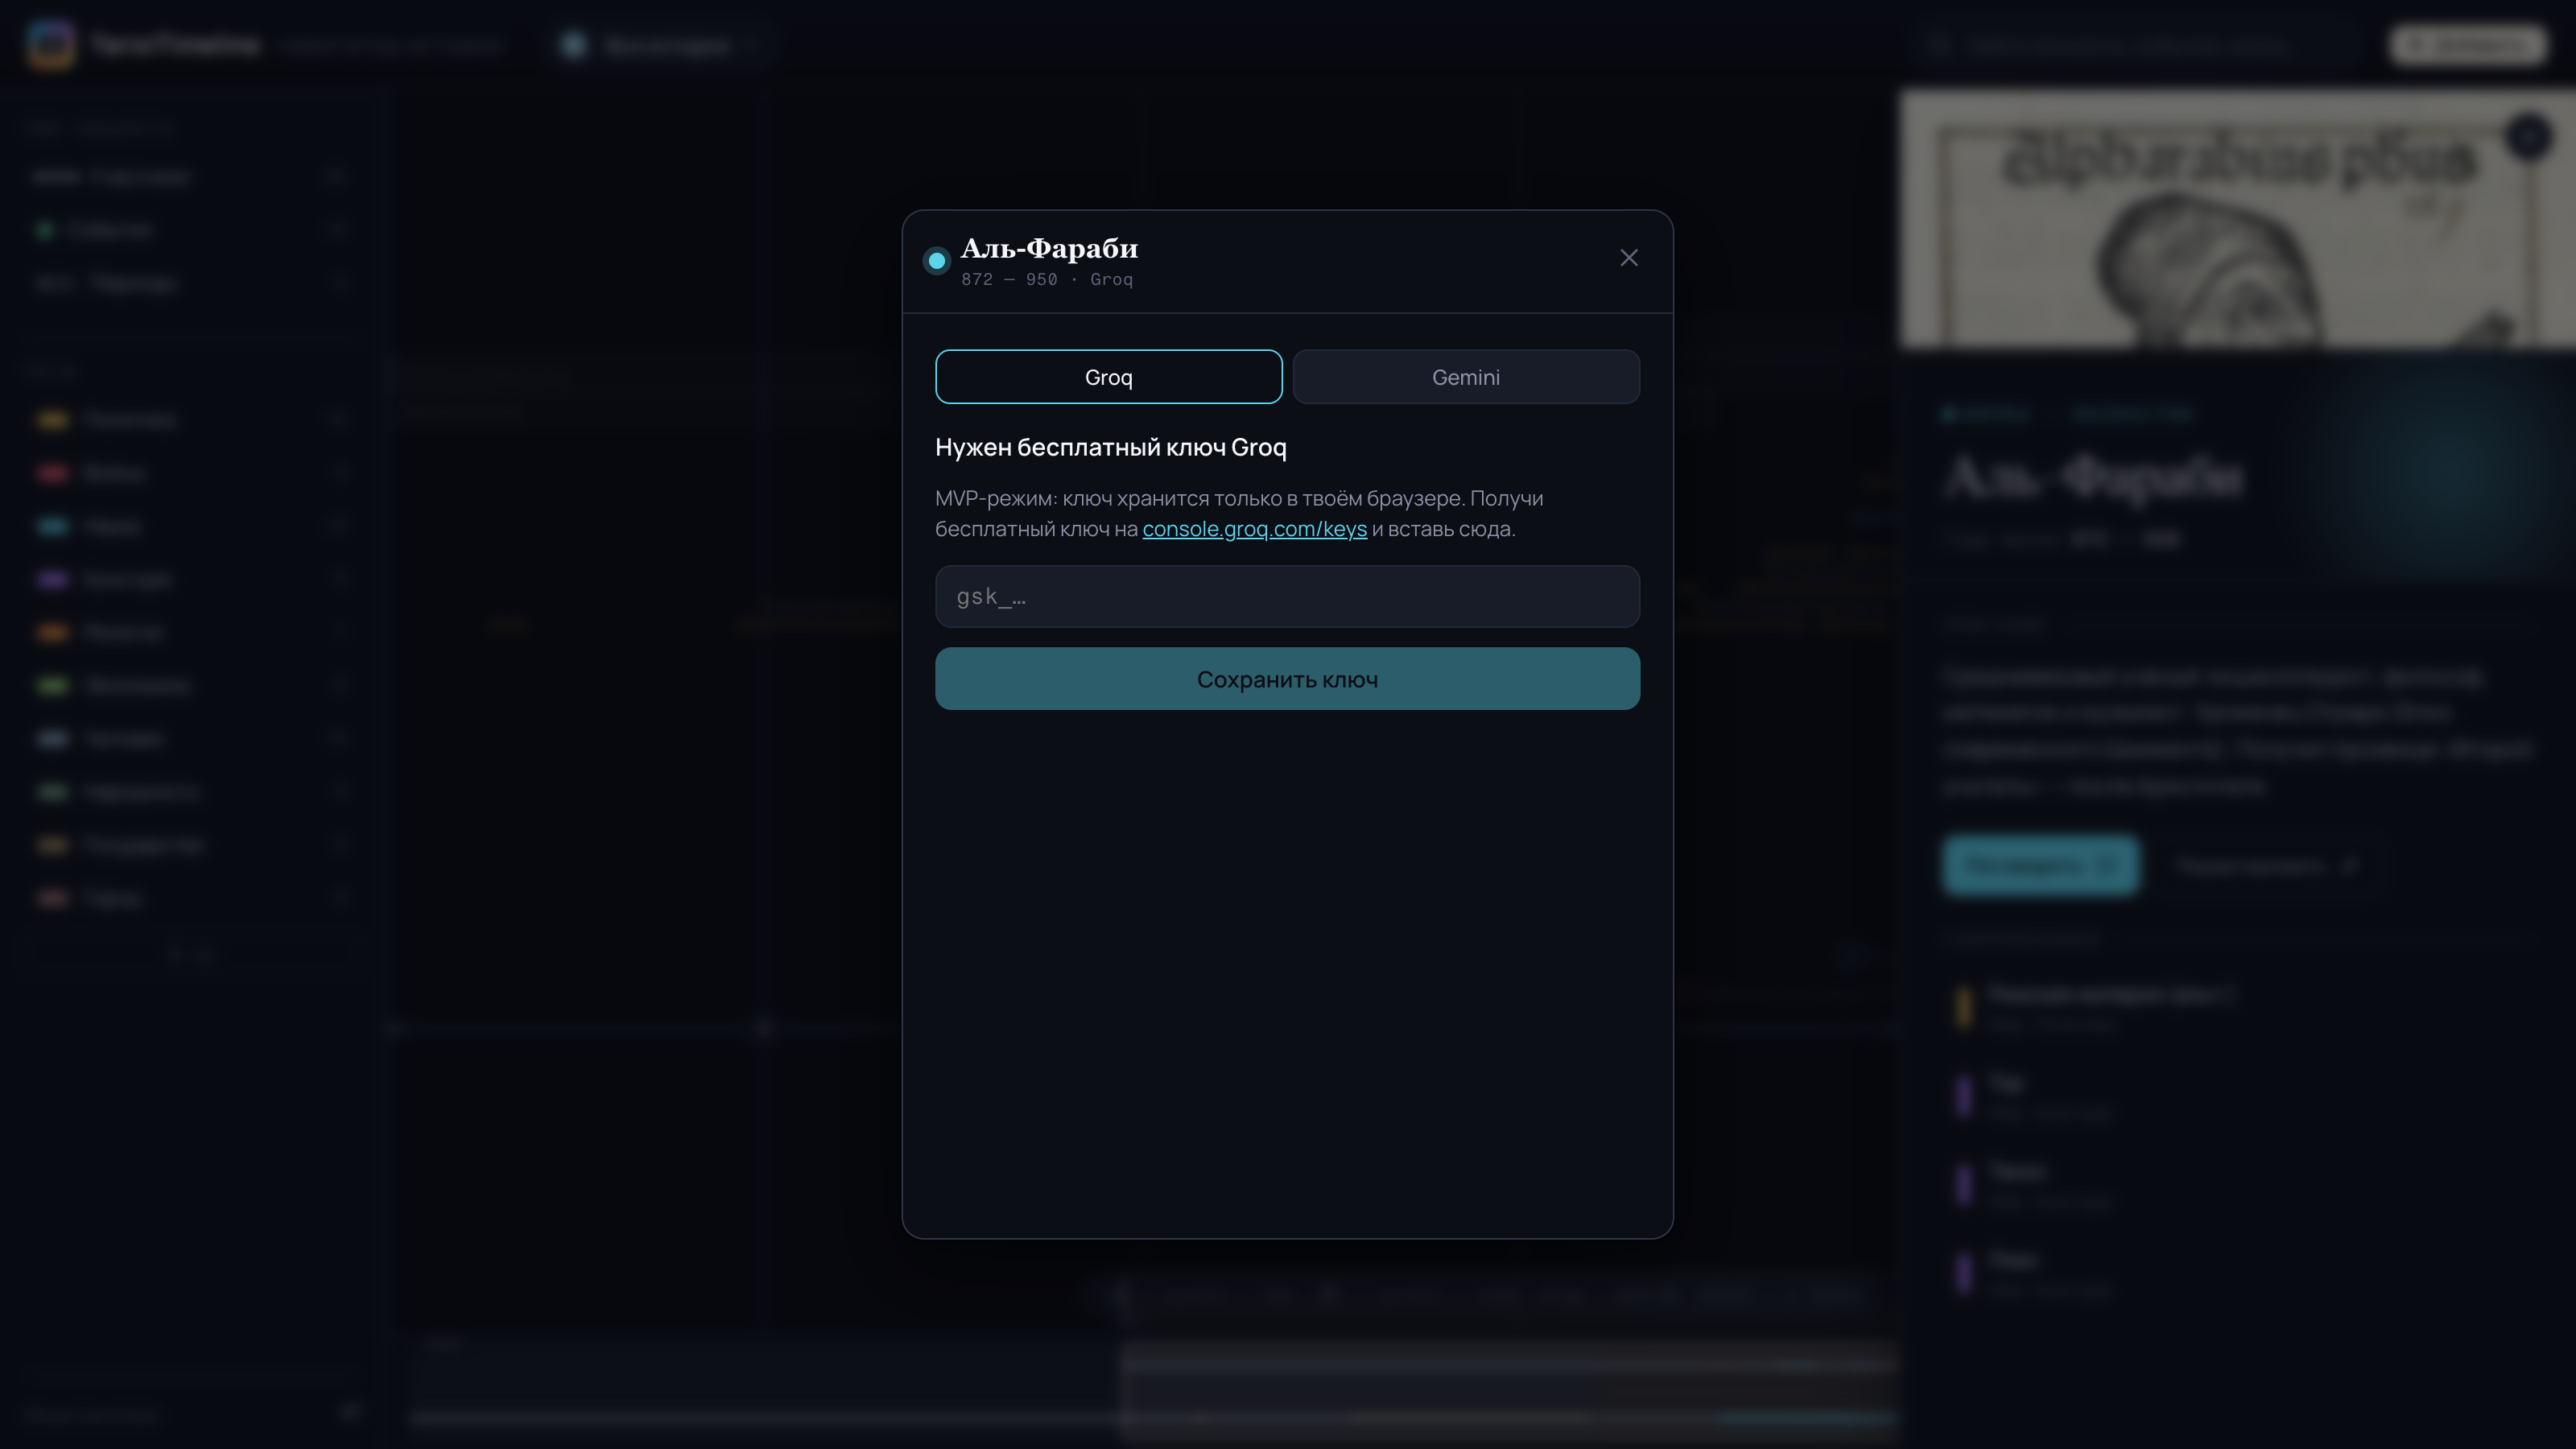
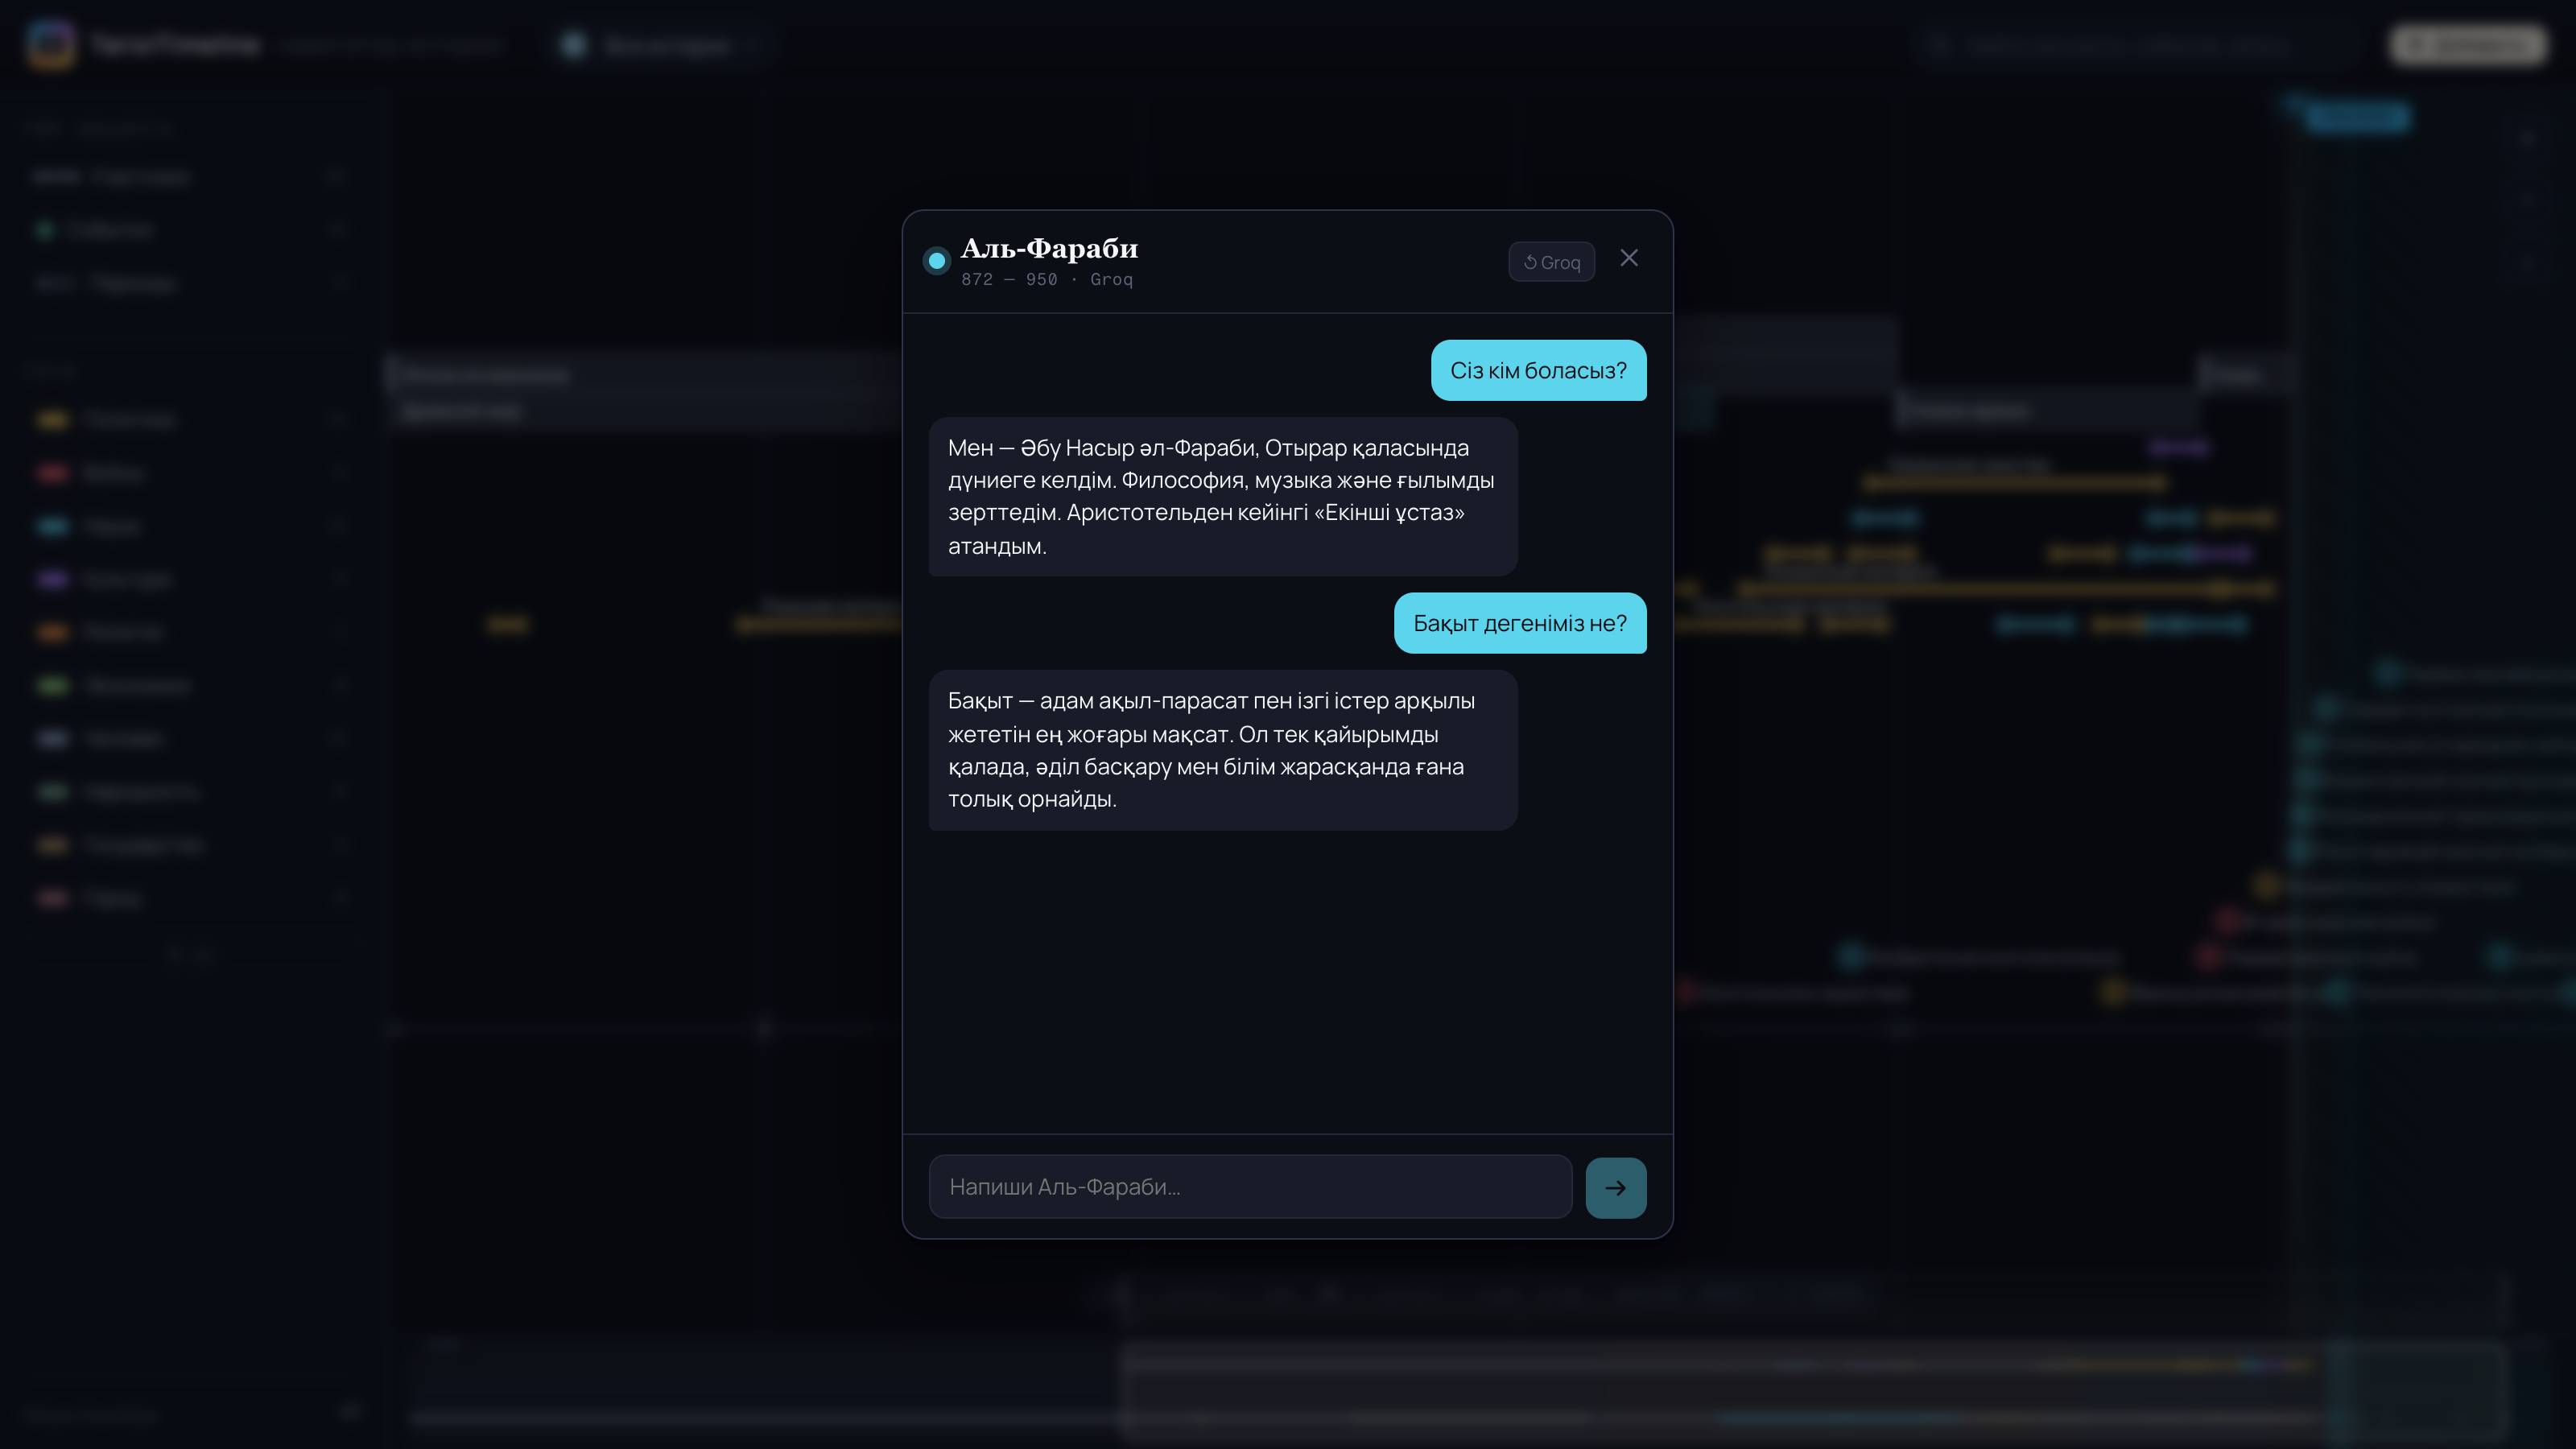
docs(presentation): real AI-chat screenshots + fix slide overflow
- Regenerate chat screenshots showing an actual Kazakh dialogue with
  Al-Farabi (mocked responses via headless Chrome, real chat UI)
- Fix detail-panel screenshot aspect ratio (was distorted) and re-crop
  to remove Marvel test-data contemporaries
- Slide 5/6: fix captions overflowing slide bottom
- Redesign slide 6: conversation as hero + feature points
- Add shoot-chat.js (reproducible chat screenshots), .gitignore for render artifacts

diff --git a/grant-presentation/shoot-chat.js b/grant-presentation/shoot-chat.js
@@ -1,0 +1,63 @@
+const puppeteer = require("puppeteer-core");
+const CHROME = "/Applications/Google Chrome.app/Contents/MacOS/Google Chrome";
+const OUT = "/Users/bekas/Developer/tarixi-timeline/grant-presentation";
+
+(async () => {
+  const browser = await puppeteer.launch({
+    executablePath: CHROME, headless: "new",
+    defaultViewport: { width: 1600, height: 900, deviceScaleFactor: 2 },
+    args: ["--no-sandbox", "--force-color-profile=srgb"],
+  });
+  const page = await browser.newPage();
+  await page.goto("http://localhost:7788/index.html", { waitUntil: "networkidle0" });
+  await page.waitForFunction(() => window.ALL_ITEMS && window.ChatPanel && document.querySelectorAll(".tl-item").length > 0, { timeout: 15000 });
+  await new Promise(r => setTimeout(r, 1000));
+
+  await page.evaluate(() => {
+    const answers = [
+      "Мен — Әбу Насыр әл-Фараби, Отырар қаласында дүниеге келдім. Философия, музыка және ғылымды зерттедім. Аристотельден кейінгі «Екінші ұстаз» атандым.",
+      "Бақыт — адам ақыл-парасат пен ізгі істер арқылы жететін ең жоғары мақсат. Ол тек қайырымды қалада, әділ басқару мен білім жарасқанда ғана толық орнайды.",
+    ];
+    window.__turn = 0;
+    const enc = new TextEncoder();
+    window.fetch = async () => {
+      const a = answers[Math.min(window.__turn++, answers.length - 1)];
+      const sse = "data: " + JSON.stringify({ choices: [{ delta: { content: a } }] }) + "\n\ndata: [DONE]\n\n";
+      return new Response(new ReadableStream({ start(c) { c.enqueue(enc.encode(sse)); c.close(); } }), { status: 200 });
+    };
+    localStorage.setItem("tarixi-chat-provider", "groq");
+    localStorage.setItem("tarixi-groq-key", "gsk_demo");
+    const div = document.createElement("div"); div.id = "__chat"; document.body.appendChild(div);
+    window.__root = ReactDOM.createRoot(div);
+    const item = window.ALL_ITEMS.find(i => i.id === "al-farabi");
+    window.__root.render(React.createElement(window.ChatPanel, { item, onClose() {} }));
+  });
+  await page.waitForSelector(".chat-input", { timeout: 8000 });
+
+  const ask = async (q) => {
+    await page.evaluate((text) => {
+      const ta = document.querySelector(".chat-input");
+      const setter = Object.getOwnPropertyDescriptor(window.HTMLTextAreaElement.prototype, "value").set;
+      setter.call(ta, text); ta.dispatchEvent(new Event("input", { bubbles: true }));
+    }, q);
+    await new Promise(r => setTimeout(r, 150));
+    await page.click(".chat-send");
+    await page.waitForFunction(() => {
+      const a = document.querySelectorAll(".chat-msg.assistant");
+      return a.length > 0 && a[a.length - 1].textContent.length > 15 && !document.querySelector(".chat-typing");
+    }, { timeout: 8000 });
+    await new Promise(r => setTimeout(r, 200));
+  };
+
+  await ask("Сіз кім боласыз?");
+  await ask("Бақыт дегеніміз не?");
+  await new Promise(r => setTimeout(r, 500));
+
+  // полноэкранный (модал над таймлайном) — 16:9
+  await page.screenshot({ path: OUT + "/screen-chat-full.png" });
+  // только модал с диалогом
+  const modal = await page.$(".chat-modal");
+  await modal.screenshot({ path: OUT + "/chat-modal.png" });
+  console.log("chat shots done");
+  await browser.close();
+})().catch(e => { console.error(e); process.exit(1); });

diff --git a/grant-presentation/build.js b/grant-presentation/build.js
@@ -18,7 +18,7 @@ const C = {
   line:   "D9D0BE",  // ашық сызық
 };
 
-const FONT_H = "Georgia";
+const FONT_H = "Times New Roman";
 const FONT_B = "Calibri";
 
 // ---------- иконкалар ----------
@@ -267,11 +267,11 @@ const shadow = () => ({ type: "outer", color: "000000", blur: 8, offset: 3, angl
     });
 
     s.addText("ДЕТАЛЬДІ ПАНЕЛЬ", { x: 8.5, y: 1.95, w: 4.2, h: 0.35, margin: 0, fontFace: FONT_B, fontSize: 12, bold: true, color: C.gold, charSpacing: 3 });
-    const dW = 3.05, dH = dW * 1.5, dX = 8.55, dY = 2.4; 
+    const dW = 3.05, dH = dW * 1050 / 850, dX = 8.55, dY = 2.4; // нақты пропорция (850x1050)
     s.addShape(pres.shapes.RECTANGLE, { x: dX - 0.04, y: dY - 0.04, w: dW + 0.08, h: dH + 0.08, fill: { color: C.navy }, shadow: shadow() });
     s.addImage({ path: __dirname + "/crop-detail.png", x: dX, y: dY, w: dW, h: dH });
-    s.addText("Детальді ақпаратта ИИ-чатты ашатын арнайы батырма орналасқан.", {
-      x: 8.55, y: dY + dH + 0.15, w: 4.05, h: 0.7, margin: 0, fontFace: FONT_B, fontSize: 13, color: C.ink, lineSpacingMultiple: 1.15,
+    s.addText("Объектіні таңдағанда фото, сипаттама және ИИ-чатты ашатын «Поговорить» батырмасы көрінеді.", {
+      x: 8.5, y: dY + dH + 0.12, w: 4.15, h: 0.7, margin: 0, fontFace: FONT_B, fontSize: 12, color: C.ink, lineSpacingMultiple: 1.15,
     });
     pageNum(s, 5);
   }
@@ -285,20 +285,32 @@ const shadow = () => ({ type: "outer", color: "000000", blur: 8, offset: 3, angl
     kicker(s, "Интерфейс · Инновация");
     title(s, "Тарихи тұлғалармен ИИ-сұхбат");
 
-    const cvX = 0.7, cvY = 1.95, cvW = 6.8, cvH = cvW * 1800 / 3200;
-    s.addShape(pres.shapes.RECTANGLE, { x: cvX - 0.04, y: cvY - 0.04, w: cvW + 0.08, h: cvH + 0.08, fill: { color: C.navy }, shadow: shadow() });
-    s.addImage({ path: __dirname + "/screen-chat-full.png", x: cvX, y: cvY, w: cvW, h: cvH });
-
-    s.addText("Толық экран режиміндегі чат интерфейсі", {
-      x: cvX, y: cvY + cvH + 0.1, w: cvW, h: 0.4, margin: 0, fontFace: FONT_B, fontSize: 13, color: C.muted, italic: true,
+    // Сол жақ — нақты диалог (модал, портрет 960x1280)
+    const mH = 4.5, mW = mH * 960 / 1280, mX = 0.7, mY = 1.9;
+    s.addShape(pres.shapes.RECTANGLE, { x: mX - 0.04, y: mY - 0.04, w: mW + 0.08, h: mH + 0.08, fill: { color: C.navy }, shadow: shadow() });
+    s.addImage({ path: __dirname + "/chat-modal.png", x: mX, y: mY, w: mW, h: mH });
+    s.addText("Нақты экран — Әл-Фарабимен қазақша диалог", {
+      x: mX, y: mY + mH + 0.12, w: mW + 1.2, h: 0.35, margin: 0, fontFace: FONT_B, fontSize: 12, italic: true, color: C.muted,
     });
 
-    const cx = 8.0, cy = 1.95, cw = 4.5, ch = cw * 1.0; 
-    s.addShape(pres.shapes.RECTANGLE, { x: cx - 0.04, y: cy - 0.04, w: cw + 0.08, h: ch + 0.08, fill: { color: C.navy }, shadow: shadow() });
-    s.addImage({ path: __dirname + "/chat-modal.png", x: cx, y: cy, w: cw, h: ch });
+    // Оң жақ — сипаттама + ерекшеліктер
+    const rx = mX + mW + 0.7, rw = W - rx - 0.73;
+    s.addText("Эмпатиялық терең ену — платформаның басты ерекшелігі. Оқушы тарихи тұлғамен нақты адаммен сөйлескендей сұхбаттасады, бұл білімді есте сақтауды күшейтеді.", {
+      x: rx, y: 2.0, w: rw, h: 1.3, margin: 0, fontFace: FONT_B, fontSize: 16, color: C.ink, lineSpacingMultiple: 1.3,
+    });
 
-    s.addText("Эмпатиялық терең ену - платформаның басты ерекшелігі. Оқушылар тұлғамен нақты адаммен сөйлескендей әңгімелеседі.", {
-      x: cx, y: cy + ch + 0.3, w: cw, h: 1.2, margin: 0, fontFace: FONT_B, fontSize: 15, color: C.ink, lineSpacingMultiple: 1.15,
+    const feats = [
+      { icon: ic.robot, t: "Дәуірге дәйекті ИИ-агенттер", d: "Әр тұлғаның мінезі, білімі мен дәуір контексі сақталады." },
+      { icon: ic.comments, t: "Қазақ және орыс тілінде", d: "Оқушының тіліне қарай табиғи түрде жауап береді." },
+      { icon: ic.brain, t: "Белсенді коммуникация", d: "Пассивті оқуға қарағанда ақпарат әлдеқайда жақсы бекиді." },
+    ];
+    let fy = 3.55;
+    feats.forEach((f) => {
+      s.addShape(pres.shapes.OVAL, { x: rx, y: fy, w: 0.7, h: 0.7, fill: { color: C.navy } });
+      s.addImage({ data: f.icon, x: rx + 0.16, y: fy + 0.16, w: 0.38, h: 0.38 });
+      s.addText(f.t, { x: rx + 0.95, y: fy - 0.02, w: rw - 0.95, h: 0.4, margin: 0, fontFace: FONT_H, fontSize: 16, bold: true, color: C.navy });
+      s.addText(f.d, { x: rx + 0.95, y: fy + 0.4, w: rw - 0.95, h: 0.55, margin: 0, fontFace: FONT_B, fontSize: 13, color: C.ink, lineSpacingMultiple: 1.1 });
+      fy += 1.05;
     });
 
     pageNum(s, 6);
@@ -430,8 +442,7 @@ const shadow = () => ({ type: "outer", color: "000000", blur: 8, offset: 3, angl
 
     let by = 1.95;
     budget.forEach((b, i) => {
-      const colors = ["0B3D54", "1C7CA5", "E5B23C", "C9962B", "5E8CA0", "8FB3C4", "A8742E"];
-      s.addShape(pres.shapes.RECTANGLE, { x: 6.45, y: by, w: 0.18, h: 0.5, fill: { color: colors[i] } });
+      s.addShape(pres.shapes.RECTANGLE, { x: 6.45, y: by, w: 0.18, h: 0.5, fill: { color: palette[i] } });
       s.addText(b[0], { x: 6.78, y: by, w: 4.4, h: 0.5, margin: 0, fontFace: FONT_B, fontSize: 13, color: C.ink, valign: "middle" });
       s.addText(b[1].toLocaleString("ru-RU") + " ₸", { x: 11.2, y: by, w: 1.5, h: 0.5, margin: 0, fontFace: FONT_B, fontSize: 13, bold: true, color: C.navy, align: "right", valign: "middle" });
       by += 0.62;
@@ -484,6 +495,7 @@ const shadow = () => ({ type: "outer", color: "000000", blur: 8, offset: 3, angl
     s.addText("[email redacted]", { x: 9.05, y: 6.3, w: 3.3, h: 0.35, margin: 0, fontFace: FONT_B, fontSize: 12, bold: true, color: C.navy, valign: "middle" });
     s.addImage({ data: ic.gh, x: 8.7, y: 6.74, w: 0.28, h: 0.28 });
     s.addText("github.com/bekarazhan/tarixi-timeline", { x: 9.05, y: 6.7, w: 3.5, h: 0.35, margin: 0, fontFace: FONT_B, fontSize: 11, color: C.navy, valign: "middle" });
+    pageNum(s, 10, true);
   }
 
   await pres.writeFile({ fileName: "/Users/bekas/Developer/tarixi-timeline/grant-presentation/Tarixi-Timeline_Tauelsizdik_urpaqtary.pptx" });

diff --git a/WORK_LOG.md b/WORK_LOG.md
@@ -6,6 +6,32 @@
 
 ---
 
+## [2026-06-21] Агент: Claude Code | Сессия: Создание агента presentations
+
+### Что сделано
+- Создан opencode-агент `@presentations` для работы с презентациями
+- Агент умеет: генерировать из Markdown (Marp, Slidev), редактировать .pptx (python-pptx), конвертировать форматы
+
+### Что изменилось в файлах
+- `.opencode/agents/presentations.md` — новый файл агента
+
+### Следующие шаги
+- Установить зависимости: `pip install python-pptx`, `npm install -g @marp-team/marp-cli`
+
+---
+
+## [2026-06-21] Агент: Claude Code | Сессия: Рефакторинг build.js (грант-презентация)
+
+### Что сделано
+- Добавлен `pageNum(s, 10, true)` на финальный слайд (раньше отсутствовал номер страницы)
+- Фикс дублирования палитры в цикле бюджета — убрана переопределённая `colors`, используется существующая `palette`
+- Шрифт Georgia заменён на Times New Roman (казахские символы Ә, Ғ, Қ, Ң, Ө, Ұ, Ү, І не гарантированы в Georgia на всех системах)
+
+### Что изменилось в файлах
+- `grant-presentation/build.js` — 3 правки
+
+---
+
 ## [2026-06-21] Агент: Claude Code | Сессия: Фото-тултипы, импорт/экспорт коллекций
 
 ### Что сделано